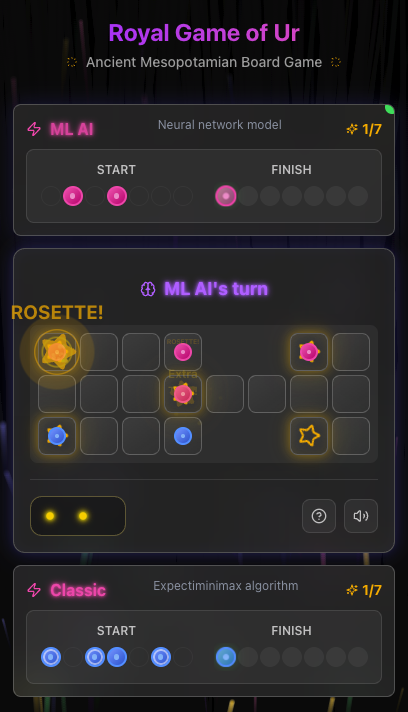
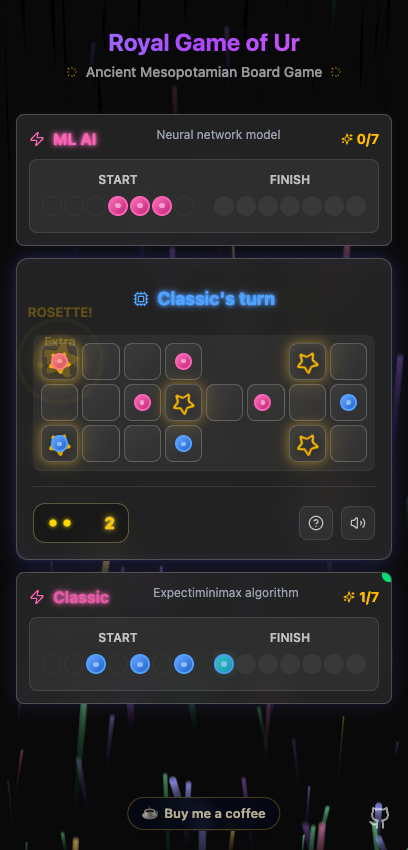
Refresh repository metadata and screenshot

diff --git a/index.html b/index.html
@@ -6,12 +6,25 @@
     <meta name="theme-color" content="#000000" />
     <meta
       name="description"
-      content="Play the ancient Royal Game of Ur against classic and machine-learning AI opponents."
+      content="Play the Royal Game of Ur offline against Classic and machine-learning AI opponents running locally in your browser."
+    />
+    <meta property="og:type" content="website" />
+    <meta property="og:title" content="Royal Game of Ur" />
+    <meta
+      property="og:description"
+      content="An offline-first ancient board game with Classic and machine-learning AI opponents."
+    />
+    <meta property="og:url" content="https://gameofur.org/" />
+    <meta name="twitter:card" content="summary" />
+    <meta name="twitter:title" content="Royal Game of Ur" />
+    <meta
+      name="twitter:description"
+      content="An offline-first ancient board game with Classic and machine-learning AI opponents."
     />
     <meta name="mobile-web-app-capable" content="yes" />
     <meta name="apple-mobile-web-app-capable" content="yes" />
     <meta name="apple-mobile-web-app-status-bar-style" content="black-translucent" />
-    <meta name="apple-mobile-web-app-title" content="rgou" />
+    <meta name="apple-mobile-web-app-title" content="Game of Ur" />
     <meta name="msapplication-TileColor" content="#000000" />
     <meta name="msapplication-config" content="/browserconfig.xml" />
     <link rel="canonical" href="https://gameofur.org/" />

diff --git a/README.md b/README.md
@@ -3,13 +3,13 @@
 [![CI/CD](https://github.com/tre-systems/rgou-cloudflare/actions/workflows/deploy.yml/badge.svg)](https://github.com/tre-systems/rgou-cloudflare/actions/workflows/deploy.yml)
 
 <div align="center">
-  <img src="docs/screenshot.png" alt="rgou Screenshot" width="408" />
+  <img src="docs/screenshot.png" alt="Royal Game of Ur AI match in progress" width="408" />
   <br />
   <a href='https://ko-fi.com/N4N31DPNUS' target='_blank'><img height='36' style='border:0px;height:36px;' src='https://storage.ko-fi.com/cdn/kofi2.png?v=6' border='0' alt='Buy Me a Coffee at ko-fi.com' /></a>
   <hr />
 </div>
 
-A modern web implementation of the ancient Royal Game of Ur (c. 2500 BCE) with dual AI opponents, offline play, and animations. Built with Vite, React, TypeScript, Rust, and WebAssembly.
+An offline-first implementation of the ancient Royal Game of Ur (c. 2500 BCE) with Classic and machine-learning opponents. The React interface runs both Rust/WebAssembly AIs locally in Web Workers and deploys as a Cloudflare Worker with Static Assets.
 
 ## Play Now
 
@@ -17,7 +17,8 @@ A modern web implementation of the ancient Royal Game of Ur (c. 2500 BCE) with d
 
 ## Features
 
-- **Dual AI**: classic expectiminimax and a self-trained neural network, both running locally via WebAssembly
+- **Dual AI**: classic expectiminimax and a self-trained neural network, both running locally through Rust and WebAssembly
+- **Non-blocking play**: both AI engines run in Web Workers, keeping search and inference off the UI thread
 - **Offline-first**: a PWA that is fully playable without a connection
 - **Responsive UI**: animations and sound effects on desktop and mobile
 - **Private by design**: win/loss statistics stay on the device; anonymous aggregate game lifecycle counts are sent to Cloudflare Analytics Engine when online
